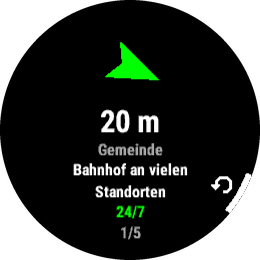
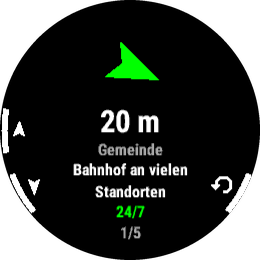
Submit 0.1.2 to the Connect IQ Store
- version 0.1.2: browse AEDs with UP/DOWN, with button marks on the bezel
- AED store screenshot regenerated and replaced in the store
- What's new covers 0.1.1 too, since 0.1.0 users jump straight to 0.1.2

Changed region(s): [[0.0308, 0.6462, 0.1538, 0.8308], [0.0, 0.4, 0.0923, 0.6154]]

diff --git a/store/LISTING.md b/store/LISTING.md
@@ -1,6 +1,6 @@
 # Connect IQ Store submission: CPR Coach
 
-Store page: https://apps.garmin.com/apps/4e356a5f-9855-4a5b-ba91-777629dffcbf (0.1.0 live since 2026-10-26; 0.1.1 submitted 2026-10-27, pending review)
+Store page: https://apps.garmin.com/apps/4e356a5f-9855-4a5b-ba91-777629dffcbf (0.1.0 live since 2026-10-26; 0.1.2 submitted 2026-10-27, pending review)
 
 To release an updated version: open that page, choose **Upload New Version**, and bump `version` in `watch/manifest.xml` first. The store rejects emoji in the description, so keep it plain ASCII.
 
@@ -61,7 +61,7 @@ AED data (c) OpenStreetMap contributors, ODbL.
 ## What's new
 
 ```
-0.1.1 (beta): the screen stays on during CPR. The start screen marks the START button and the AED screens mark the BACK button. Easier-to-read colors (no red text). Not a medical device.
+0.1.2 (beta): browse the nearest AEDs with UP/DOWN (swipe on touch watches); the AED screens mark the UP, DOWN and BACK buttons. Also new since 0.1.0: the screen stays on during CPR, the start screen marks the START button, easier-to-read colors (no red text). Not a medical device.
 ```
 
 ## Category
